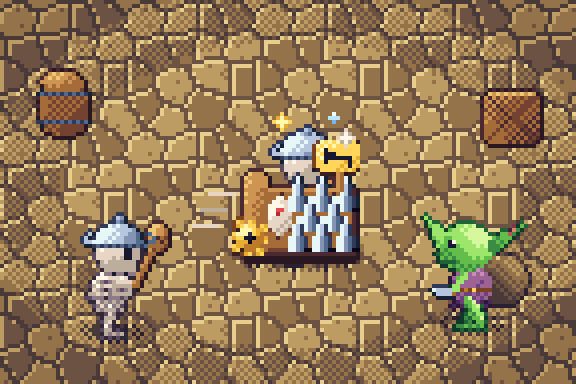
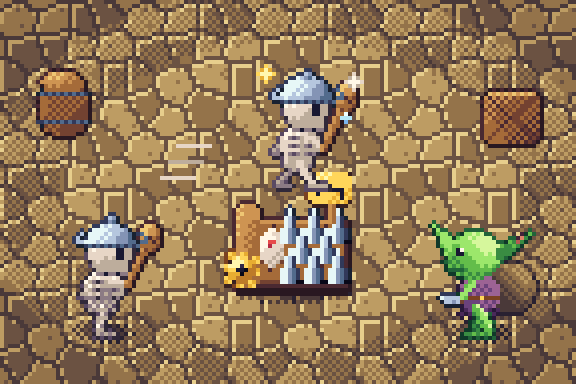
Zwischenstand: Pack 10 (BF-08..10, BP-02..06, BU-02..04) fertig
Claude-Session: https://claude.ai/code/session_01JDx43Amq4CkeoPVSoFPfb3

Changed region(s): [[0.125, 0.1562, 0.625, 0.9062], [0.7188, 0.5625, 0.9375, 0.9062], [0.2812, 0.375, 0.375, 0.4688]]

diff --git a/BastionBlasters/art/pack_art7.py b/BastionBlasters/art/pack_art7.py
@@ -282,20 +282,20 @@ def _art_bs05():
     for (sp, x, y) in ((barrel(), 16, 34), (crate(), 128, 36)):
         prop_at(w, sp, x, y)
     strip = spike_strip()
-    sx, sy = 74, 66                                         # Fußpunkt (Mitte unten) der Stachelflur
+    sx, sy = 72, 74                                         # Fußpunkt (Mitte unten) der Stachelflur
     shadow(w, sx + 1, sy - 1, 15, 3)
-    # Gegner läuft darüber: Stacheln stehen vor seinen Füßen
-    unit_at(w, skeleton('walk', 0), sx + 1, sy - 5, sh=(8, 2))
     w.draw(strip, sx - strip.w // 2, sy - strip.h + 1, sy)
-    # Autsch-Funken und Tempo-Bremse (kurze Striche hinter ihm)
-    burst(w, sx - 4, sy - 36, False, 'gold')
-    burst(w, sx + 12, sy - 32, False, 'bone')
-    sweat(w, sx + 9, sy - 38)
+    # Gegner tritt auf die Spitzen: hüpft mit Autsch-Funken, Schweiß, Tempo-Bremse (Striche hinter ihm)
+    sk = skeleton('walk', 0)
+    w.draw(sk, sx + 3 - sk.w // 2, sy - 27 - sk.h + 1, 9000 + sy)
+    burst(w, sx - 6, sy - 56, False, 'gold')
+    burst(w, sx + 16, sy - 54, False, 'bone')
+    sweat(w, sx + 14, sy - 46)
     for k in range(3):
-        wline(w, sx - 22 - k * 2, sy - 18 + k * 4, sx - 16 - k * 2, sy - 18 + k * 4, 'bone', 4 - (k % 2), 9000)
-    # wartender Zweiter
-    unit_at(w, skeleton('idle', 1), 28, 84, sh=(8, 3))
-    unit_at(w, goblin('walk', 2), 118, 82, flip=True, sh=(8, 3))
+        wline(w, sx - 28 - k * 2, sy - 38 + k * 4, sx - 20 - k * 2, sy - 38 + k * 4, 'bone', 4 - (k % 2), 9000)
+    # wartende Zweite
+    unit_at(w, skeleton('idle', 1), 26, 84, sh=(8, 3))
+    unit_at(w, goblin('walk', 2), 120, 84, flip=True, sh=(8, 3))
     return finish(w)
 
 
@@ -306,20 +306,23 @@ def _art_bs05():
 def _art_bs08():
     w = ground_world('cobble', 7)
     maze = revolving_maze()
-    mx, my = 40, 30                                         # linke obere Ecke
+    mx, my = 40, 26                                         # linke obere Ecke
     foot = my + maze.h - 1
     shadow(w, mx + 32, foot - 1, 36, 4)
     w.draw(maze, mx, my, foot)
-    # Verwirrter Gegner torkelt in der Trommel, Sterne kreisen
+    # verwirrter Gegner torkelt am Eingang, Sterne kreisen, wirre Laufspur auf dem Pflaster
     g = goblin('walk', 1)
-    unit_at(w, g, mx + 14, foot - 3, flip=False, sh=(8, 2))
-    w.draw(g, 0, 0, 0) if False else None
-    dizzy(w, mx + 16, foot - 31, 8, 3, 3, 0.6, 9200)
+    gx, gy = 30, 84
+    shadow(w, gx, gy - 1, 9, 3)
+    w.draw(g, gx - g.w // 2, gy - g.h + 1, 9000 + gy)
+    dizzy(w, gx, gy - 31, 9, 3, 3, 0.6, 9500)
+    for k in range(14):
+        a = k * 0.55
+        wpx(w, gx + 18 + math.cos(a) * (3 + k * 0.7), gy - 4 + math.sin(a) * (2 + k * 0.4), 'bone', 4, 4000)
     # einsamer Hut auf dem Boden
-    w.draw(hat(), mx + 52, foot - 9, 9000)
-    # zweiter Gegner kommt von rechts
-    unit_at(w, skeleton('walk', 2), 118, 84, flip=True, sh=(8, 3))
-    unit_at(w, citizen('cloth', 0), 20, 82, sh=(5, 2))
+    w.draw(hat(), mx + 58, foot - 10, 9000)
+    # zweiter Gegner kommt von rechts (vorsichtig)
+    unit_at(w, skeleton('walk', 2), 120, 80, flip=True, sh=(8, 3))
     for (sp, x, y) in ((barrel(), 16, 34), (crate(), 128, 34)):
         prop_at(w, sp, x, y)
     return finish(w)
@@ -513,20 +516,28 @@ def _art_bt04():
         t.shadow(x, y, (8, 3))
     # Strahl: lila Mantel (Dither), Kern hell, durchschlägt alle drei; Zirp-Wellen als Bögen
     for (x, y) in _beam_pts(eye, far):
-        for dy in (-2, -1, 0, 1, 2):
-            if abs(dy) == 2 and int(x + y) % 2:
+        for dy in (-3, -2, -1, 0, 1, 2, 3):
+            if abs(dy) == 3 and int(x + y) % 2:
                 continue
-            ramp, idx = ('purple', 3) if abs(dy) == 2 else (('purple', 5) if abs(dy) == 1 else ('bone', 5))
+            if abs(dy) == 3:
+                ramp, idx = 'purple', 3
+            elif abs(dy) == 2:
+                ramp, idx = 'purple', 4
+            elif abs(dy) == 1:
+                ramp, idx = 'purple', 5
+            else:
+                ramp, idx = 'bone', 5
             t.px(x, y + dy, ramp, idx, 5000)
     ang = math.atan2(far[1] - eye[1], far[0] - eye[0])
     for k in range(5):
         d = 14 + k * 13
         cx, cy = eye[0] + math.cos(ang) * d, eye[1] + math.sin(ang) * d
-        for a in range(-60, 61, 12):
+        for a in range(-55, 56, 8):
             aa = ang + math.radians(a)
-            px_ = cx + math.cos(aa) * (5 + k * 0.6)
-            py_ = cy + math.sin(aa) * (5 + k * 0.6)
-            t.px(px_, py_, 'purple', 5 if k % 2 else 4, 5000)
+            px_ = cx + math.cos(aa) * (6 + k * 0.7)
+            py_ = cy + math.sin(aa) * (6 + k * 0.7)
+            t.px(px_, py_, 'purple', 5, 5002)
+            t.px(px_ + 1, py_, 'purple', 3, 5002)
     for (x, y) in targets:
         t.unit(skeleton('idle', 0 if x != 110 else 1), x, y, flip=True, top=True, shade=False)
     for (x, y) in targets:
@@ -541,7 +552,7 @@ def _art_bt04():
 @card_art('BT-05')
 def _art_bt05():
     t = TW('grass', 7, hornet_tower())
-    for (sp, x, y) in ((tree_round(1), 136, 44), (bush(1), 12, 56), (rock(1), 16, 90), (bush(3, True), 76, 94)):
+    for (sp, x, y) in ((tree_round(1), 136, 44), (bush(1), 12, 56), (rock(1), 16, 90), (bush(3, True), 96, 96)):
         t.prop(sp, x, y)
     nest = (58, 57)
     sk = (118, 85)
@@ -549,16 +560,16 @@ def _art_bt05():
     # Flugspuren der Hornissen
     for (a, b) in (((nest[0] + 6, nest[1] - 2), (82, 46)), ((nest[0] + 6, nest[1]), (96, 62)), ((nest[0] + 6, nest[1] + 2), (110, 56))):
         t.line(a[0], a[1], b[0], b[1], 'bone', 4, 5000, dash=2)
-    t.sprite(hornet(0), 88, 44, 9100)
-    t.sprite(hornet(1), 102, 62, 9100)
-    t.sprite(hornet(0), 114, 56, 9100)
+    t.sprite(hornet(0), 86, 42, 9100)
+    t.sprite(hornet(1), 100, 62, 9100)
+    t.sprite(hornet(0), 128, 52, 9100)
     # Gegner wird gepiekst: Sterne
     t.unit(skeleton('idle', 1), sk[0], sk[1], flip=True, top=True, shade=False)
     t.burst(112, 70, False, 'gold')
     t.burst(124, 66, False, 'fire')
     t.px(104, 69, 'bone', 5)
     t.px(105, 70, 'bone', 4)
-    t.unit(citizen('cloth', 0), 20, 82, sh=(5, 2))
+    t.line(112, 56, 124, 54, 'bone', 4, 5000, dash=2)
     return t.done()
 
 
@@ -568,10 +579,10 @@ def _art_bt05():
 @card_art('BT-06')
 def _art_bt06():
     t = TW('mud', 9, storm_spike())
-    for (sp, x, y) in ((rock(2), 14, 90), (bush(2), 136, 48)):
+    for (sp, x, y) in ((rock(2), 14, 90), (bush(2), 138, 40)):
         t.prop(sp, x, y)
     cloud = (58, 30)
-    A, B, C = (96, 82), (122, 76), (126, 91)
+    A, B, C = (92, 80), (122, 72), (112, 91)
     for (x, y) in (A, B, C):
         t.shadow(x, y, (8, 3))
     # Blitz: Wolke -> A, dann Kettenblitz A -> B -> C
@@ -607,7 +618,7 @@ def _art_bt07():
     for (sp, x, y) in ((bush(1), 136, 54), (rock(1), 14, 90), (bush(2), 16, 56)):
         t.prop(sp, x, y)
     # Flieger (Fledermäuse) und ihre Schatten auf dem Boden
-    bat1, bat2 = (118, 30), (98, 14)
+    bat1, bat2 = (116, 34), (132, 14)
     t.shadow(bat1[0], 82, (8, 2))
     t.shadow(bat2[0], 70, (7, 2))
     t.sprite(bat(0), bat2[0], bat2[1], 9000)
